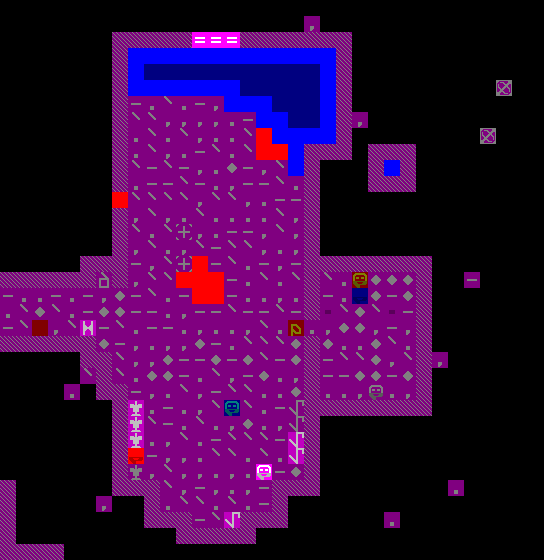
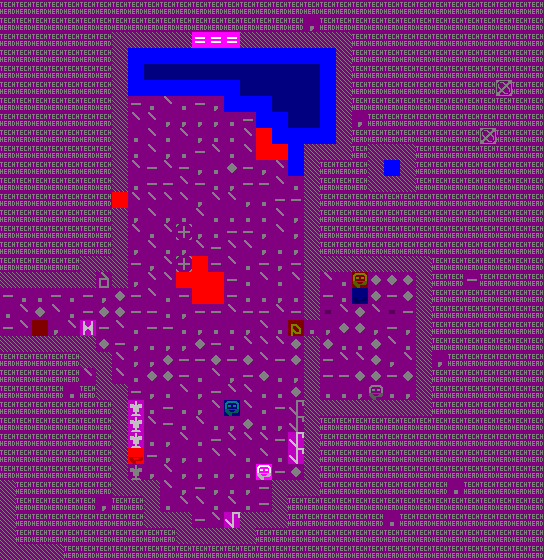
Slight color change.

diff --git a/src/main/java/Code/TilesetFitter.java b/src/main/java/Code/TilesetFitter.java
@@ -652,7 +652,7 @@ public class TilesetFitter {
 		}
 		
 		if (foregroundC == null) {
-			foregroundC = Color.BLACK;//To handle some edge cases.
+			foregroundC = Color.GRAY;//To handle some edge cases.
 		}
 		if (backgroundC == null) {
 			backgroundC = Color.BLACK;//To handle some edge cases.
